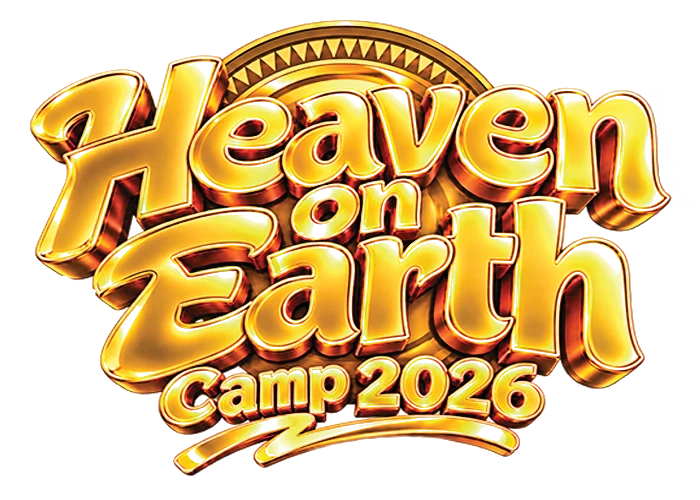
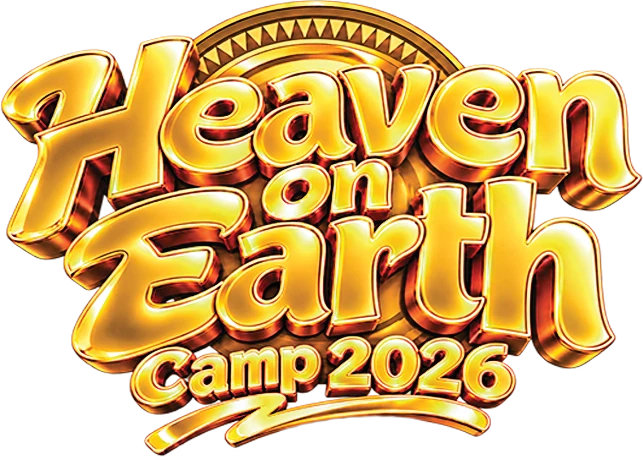
fix: link existing spouses/children into the registrant's household
Only when they have no household and no login of their own, so a booking
can't move someone or claim a stranger found by phone. Also refreshes the
HOE title artwork.

diff --git a/src/actions/event-registrations.ts b/src/actions/event-registrations.ts
@@ -284,13 +284,31 @@ export async function submitEventRegistration(
       let householdId = registrant.householdId;
       // Only spouses and children join the registrant's household.
       const inHousehold = (r: Resolved) => r.relationship === "SPOUSE" || r.relationship === "CHILD";
-      const needsHousehold = resolved.some((r) => r.newPerson && inHousehold(r));
+      // Existing spouses/children join too, but only if they have no household
+      // (never move someone) and no login of their own (they can't consent here;
+      // lookup-by-phone would otherwise let anyone claim a stranger).
+      const existingIds = resolved
+        .filter((r) => !r.isSelf && !r.newPerson && inHousehold(r))
+        .map((r) => r.memberId!);
+      const linkable = existingIds.length
+        ? await tx.member.findMany({
+            where: { id: { in: existingIds }, householdId: null, userId: null },
+            select: { id: true },
+          })
+        : [];
+      const needsHousehold = linkable.length > 0 || resolved.some((r) => r.newPerson && inHousehold(r));
       if (needsHousehold && !householdId) {
         const hh = await tx.household.create({
           data: { name: `${registrant.fullName} household` },
         });
         householdId = hh.id;
         await tx.member.update({ where: { id: registrant.id }, data: { householdId } });
+      }
+      if (linkable.length) {
+        await tx.member.updateMany({
+          where: { id: { in: linkable.map((m) => m.id) }, householdId: null },
+          data: { householdId },
+        });
       }
 
       for (const r of resolved) {
